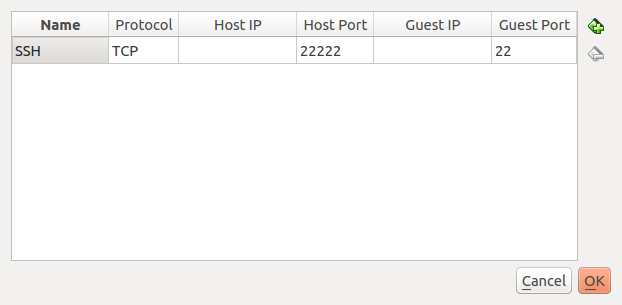
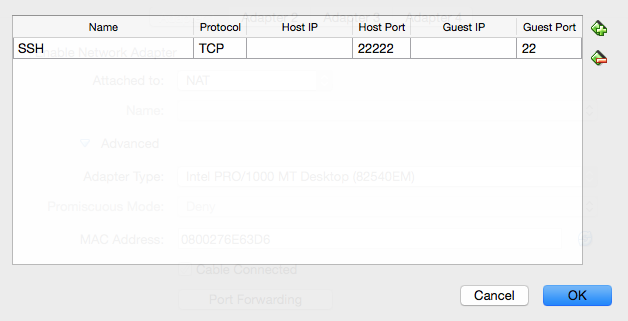
Update gitian build guide for Debian 8.1

diff --git a/doc/gitian-building.md b/doc/gitian-building.md
@@ -5,7 +5,7 @@ Gitian building
 
 Gitian is the deterministic build process that is used to build the Bitcoin
 Core executables. It provides a way to be reasonably sure that the
-executables are really built from source on GitHub. It also makes sure that
+executables are really built from the source on GitHub. It also makes sure that
 the same, tested dependencies are used and statically built into the executable.
 
 Multiple developers build the source code by following a specific descriptor
@@ -13,8 +13,8 @@ Multiple developers build the source code by following a specific descriptor
 These results are compared and only if they match, the build is accepted and uploaded
 to bitcoin.org.
 
-More independent gitian builders are needed, which is why I wrote this
-guide. It is preferred to follow these steps yourself instead of using someone else's
+More independent gitian builders are needed, which is why this guide exists. 
+It is preferred you follow these steps yourself instead of using someone else's
 VM image to avoid 'contaminating' the build.
 
 Table of Contents
@@ -39,46 +39,46 @@ This guide explains how to set up the environment, and how to start the builds.
 
 Debian Linux was chosen as the host distribution because it has a lightweight install (in contrast to Ubuntu) and is readily available.
 Any kind of virtualization can be used, for example:
-- [VirtualBox](https://www.virtualbox.org/), covered by this guide
+- [VirtualBox](https://www.virtualbox.org/) (covered by this guide)
 - [KVM](http://www.linux-kvm.org/page/Main_Page)
 - [LXC](https://linuxcontainers.org/), see also [Gitian host docker container](https://github.com/gdm85/tenku/tree/master/docker/gitian-bitcoin-host/README.md).
 
-You can also install on actual hardware instead of using virtualization.
+You can also install gitian on actual hardware instead of using virtualization.
 
 Create a new VirtualBox VM
 ---------------------------
 In the VirtualBox GUI click "Create" and choose the following parameters in the wizard:
 
-![](gitian-building/create_vm_page1.png)
+![](gitian-building/create_new_vm.png)
 
-- Type: Linux, Debian (64 bit)
+- Type: Linux, Debian (64-bit)
 
 ![](gitian-building/create_vm_memsize.png)
 
-- Memory Size: at least 1024MB, anything lower will really slow the build down
+- Memory Size: at least 1024MB, anything less will really slow down the build.
 
-![](gitian-building/create_vm_hard_drive.png)
+![](gitian-building/create_vm_hard_disk.png)
 
-- Hard Drive: Create a virtual hard drive now
+- Hard Disk: Create a virtual hard disk now
     
-![](gitian-building/create_vm_hard_drive_file_type.png)
+![](gitian-building/create_vm_hard_disk_file_type.png)
 
-- Hard Drive file type: Use the default, VDI (VirtualBox Disk Image) 
+- Hard Disk file type: Use the default, VDI (VirtualBox Disk Image) 
 
-![](gitian-building/create_vm_storage_physical_hard_drive.png)
+![](gitian-building/create_vm_storage_physical_hard_disk.png)
     
-- Storage on Physical hard drive: Dynamically Allocated 
+- Storage on physical hard disk: Dynamically Allocated 
     
 ![](gitian-building/create_vm_file_location_size.png)
 
-- Disk size: at least 40GB; as low as 20GB *may* be possible, but better to err on the safe side 
-- Push the `Create` button
+- File location and size: at least 40GB; as low as 20GB *may* be possible, but better to err on the safe side 
+- Click `Create`
 
-Get the [Debian 7.8 net installer](http://cdimage.debian.org/cdimage/archive/7.8.0/amd64/iso-cd/debian-7.8.0-amd64-netinst.iso) (a more recent minor version should also work, see also [Debian Network installation](https://www.debian.org/CD/netinst/)).
+Get the [Debian 8.1 net installer](http://cdimage.debian.org/debian-cd/8.1.0/amd64/iso-cd/debian-8.1.0-amd64-netinst.iso) (a more recent minor version should also work, see also [Debian Network installation](https://www.debian.org/CD/netinst/)).
 This DVD image can be validated using a SHA256 hashing tool, for example on
 Unixy OSes by entering the following in a terminal:
 
-    echo "e39c36d6adc0fd86c6edb0e03e22919086c883b37ca194d063b8e3e8f6ff6a3a  debian-7.8.0-amd64-netinst.iso" | sha256sum -c
+    echo "5d0a1f804d73aee73eee7efbb38456390558094fd19894a573f1514ca44347e0  debian-8.1.0-amd64-netinst.iso" | sha256sum -c
     # (must return OK)
 
 After creating the VM, we need to configure it. 
@@ -115,8 +115,9 @@ This section will explain how to install Debian on the newly created VM.
 
 ![](gitian-building/debian_install_1_boot_menu.png)
 
-**Note**: Navigation in the Debian installer: To keep a setting at the default
-and proceed, just press `Enter`. To select a different button, press `Tab`.
+**Note**: Navigating in the Debian installer: 
+To keep a setting at the default and proceed, just press `Enter`. 
+To select a different button, press `Tab`.
 
 - Choose locale and keyboard settings (doesn't matter, you can just go with the defaults or select your own information)
 
@@ -126,7 +127,7 @@ and proceed, just press `Enter`. To select a different button, press `Tab`.
 
 - The VM will detect network settings using DHCP, this should all proceed automatically
 - Configure the network: 
-  - System name `debian`.
+  - Hostname `debian`.
   - Leave domain name empty.
 
 ![](gitian-building/debian_install_5_configure_the_network.png)
@@ -136,6 +137,7 @@ and proceed, just press `Enter`. To select a different button, press `Tab`.
 ![](gitian-building/debian_install_6a_set_up_root_password.png)
 
 - Name the new user `debian` (the full name doesn't matter, you can leave it empty) 
+- Set the account username as `debian`
 
 ![](gitian-building/debian_install_7_set_up_user_fullname.png)
 ![](gitian-building/debian_install_8_set_up_username.png)
@@ -158,13 +160,9 @@ and proceed, just press `Enter`. To select a different button, press `Tab`.
 
 ![](gitian-building/debian_install_12_choose_disk.png)
 
-  - Partitioning scheme: All files in one partition 
-  
-![](gitian-building/debian_install_13_partition_scheme.png)
-
   - Finish partitioning and write changes to disk -> *Yes* (`Tab`, `Enter` to select the `Yes` button)
 
-![](gitian-building/debian_install_14_finish.png) 
+![](gitian-building/debian_install_14_finish.png)
 ![](gitian-building/debian_install_15_write_changes.png)
 
 - The base system will be installed, this will take a minute or so
@@ -172,50 +170,78 @@ and proceed, just press `Enter`. To select a different button, press `Tab`.
 
 ![](gitian-building/debian_install_16_choose_a_mirror.png)
 
-- Enter proxy information (unless you are on an intranet, you can leave this empty)
+- Enter proxy information (unless you are on an intranet, leave this empty)
 
 ![](gitian-building/debian_install_18_proxy_settings.png)
 
 - Wait a bit while 'Select and install software' runs
 - Participate in popularity contest -> *No*
-- Choose software to install. We need just the base system. 
-
-![](gitian-building/debian_install_19_software_selection.png)
-
+- Choose software to install. We need just the base system.
 - Make sure only 'SSH server' and 'Standard System Utilities' are checked
 - Uncheck 'Debian Desktop Environment' and 'Print Server'
 
+![](gitian-building/debian_install_19_software_selection.png)
+
+- Install the GRUB boot loader to the master boot record? -> Yes
+
 ![](gitian-building/debian_install_20_install_grub.png)
 
-- Install the GRUB boot loader to the master boot record? -> Yes 
+- Device for boot loader installation -> ata-VBOX_HARDDISK
 
-![](gitian-building/debian_install_21_finish_installation.png)
+![](gitian-building/debian_install_21_install_grub_bootloader.png)
 
 - Installation Complete -> *Continue*
 - After installation, the VM will reboot and you will have a working Debian VM. Congratulations!
+
+![](gitian-building/debian_install_22_finish_installation.png)
+
+
+After Installation
+-------------------
+The next step in the guide involves logging in as root via SSH.
+SSH login for root users is disabled by default, so we'll enable that now.
+
+Login to the VM using username `root` and the root password you choose earlier.
+You'll be presented with a screen similar to this.
+
+![](gitian-building/debian_root_login.png)
+
+Type:
+
+```
+sed -i 's/^PermitRootLogin.*/PermitRootLogin yes/' /etc/ssh/sshd_config
+```
+and press enter. Then,
+```
+/etc/init.d/ssh restart
+```
+and enter to restart SSH. Logout by typing 'logout' and pressing 'enter'.
 
 Connecting to the VM
 ----------------------
 
 After the VM has booted you can connect to it using SSH, and files can be copied from and to the VM using a SFTP utility.
 Connect to `localhost`, port `22222` (or the port configured when installing the VM).
-On Windows you can use putty[1] and WinSCP[2].
+On Windows you can use [putty](http://www.chiark.greenend.org.uk/~sgtatham/putty/download.html) and [WinSCP](http://winscp.net/eng/index.php).
 
-For example to connect as `root` from a Linux command prompt use
+For example, to connect as `root` from a Linux command prompt use
 
     $ ssh root@localhost -p 22222
     The authenticity of host '[localhost]:22222 ([127.0.0.1]:22222)' can't be established.
-    ECDSA key fingerprint is 8e:71:f9:5b:62:46:de:44:01:da:fb:5f:34:b5:f2:18.
+    RSA key fingerprint is ae:f5:c8:9f:17:c6:c7:1b:c2:1b:12:31:1d:bb:d0:c7.
     Are you sure you want to continue connecting (yes/no)? yes
-    Warning: Permanently added '[localhost]:22222' (ECDSA) to the list of known hosts.
+    Warning: Permanently added '[localhost]:22222' (RSA) to the list of known hosts.
     root@localhost's password: (enter root password configured during install)
-    Linux debian 3.2.0-4-amd64 #1 SMP Debian 3.2.54-2 x86_64
+
+    The programs included with the Debian GNU/Linux system are free software;
+    the exact distribution terms for each program are described in the
+    individual files in /usr/share/doc/*/copyright.
+
+    Debian GNU/Linux comes with ABSOLUTELY NO WARRANTY, to the extent
+    permitted by applicable law.
     root@debian:~#
 
 Replace `root` with `debian` to log in as user.
-
-[1] http://www.chiark.greenend.org.uk/~sgtatham/putty/download.html
-[2] http://winscp.net/eng/index.php
 
 Setting up Debian for gitian building
 --------------------------------------
@@ -226,12 +252,9 @@ First we need to log in as `root` to set up dependencies and make sure that our
 user can use the sudo command. Type/paste the following in the terminal:
 
 ```bash
-apt-get install git ruby sudo apt-cacher-ng qemu-utils debootstrap lxc python-cheetah parted kpartx bridge-utils
+apt-get install git ruby sudo apt-cacher-ng qemu-utils debootstrap lxc python-cheetah parted kpartx bridge-utils make ubuntu-archive-keyring
 adduser debian sudo
 ```
-
-When you get a colorful screen with a question about the 'LXC directory', just
-go with the default (`/var/lib/lxc`).
 
 Then set up LXC and the rest with the following, which is a complex jumble of settings and workarounds:
 
@@ -255,7 +278,7 @@ reboot
 ```
 
 At the end the VM is rebooted to make sure that the changes take effect. The steps in this
-section need only to be performed once.
+section only need to be performed once.
 
 Installing gitian
 ------------------
@@ -300,26 +323,26 @@ cd gitian-builder
 bin/make-base-vm --lxc --arch amd64 --suite precise
 ```
 
-There will be a lot of warnings printed during build of the image. These can be ignored.
+There will be a lot of warnings printed during the build of the image. These can be ignored.
 
 **Note**: When sudo asks for a password, enter the password for the user *debian* not for *root*.
 
 Getting and building the inputs
 --------------------------------
 
-Follow the instructions in [doc/release-process.md](release-process.md) in the bitcoin repository
-under 'Fetch and build inputs' to install sources which require manual intervention. Also follow
-the next step: 'Seed the Gitian sources cache', which will fetch all necessary source files allowing
-for gitian to work offline.
+Follow the instructions in [doc/release-process.md](release-process.md#fetch-and-build-inputs-first-time-or-when-dependency-versions-change) 
+in the bitcoin repository to install sources which require manual intervention. Also follow
+the next step: 'Seed the Gitian sources cache', which will fetch all the necessary source 
+files to allow gitian to work offline.
 
 Building Bitcoin
 ----------------
 
 To build Bitcoin (for Linux, OSX and Windows) just follow the steps under 'perform
-gitian builds' in [doc/release-process.md](release-process.md) in the bitcoin repository.
+gitian builds' in [doc/release-process.md](release-process.md#perform-gitian-builds) in the bitcoin repository.
 
-This may take a long time as it also builds the dependencies needed for each descriptor.
-These dependencies will be cached after a successful build to avoid rebuilding them where possible.
+This may take some time as it will build all the dependencies needed for each descriptor.
+These dependencies will be cached after a successful build to avoid rebuilding them when possible.
 
 At any time you can check the package installation and build progress with
 
@@ -331,13 +354,13 @@ tail -f var/build.log
 Output from `gbuild` will look something like
 
     Initialized empty Git repository in /home/debian/gitian-builder/inputs/bitcoin/.git/
-    remote: Reusing existing pack: 35606, done.
-    remote: Total 35606 (delta 0), reused 0 (delta 0)
-    Receiving objects: 100% (35606/35606), 26.52 MiB | 4.28 MiB/s, done.
-    Resolving deltas: 100% (25724/25724), done.
+    remote: Counting objects: 57959, done.
+    remote: Total 57959 (delta 0), reused 0 (delta 0), pack-reused 57958
+    Receiving objects: 100% (57959/57959), 53.76 MiB | 484.00 KiB/s, done.
+    Resolving deltas: 100% (41590/41590), done.
     From https://github.com/bitcoin/bitcoin
     ... (new tags, new branch etc)
-    --- Building for precise x86_64 ---
+    --- Building for precise amd64 ---
     Stopping target if it is up
     Making a new image copy
     stdin: is not a tty
